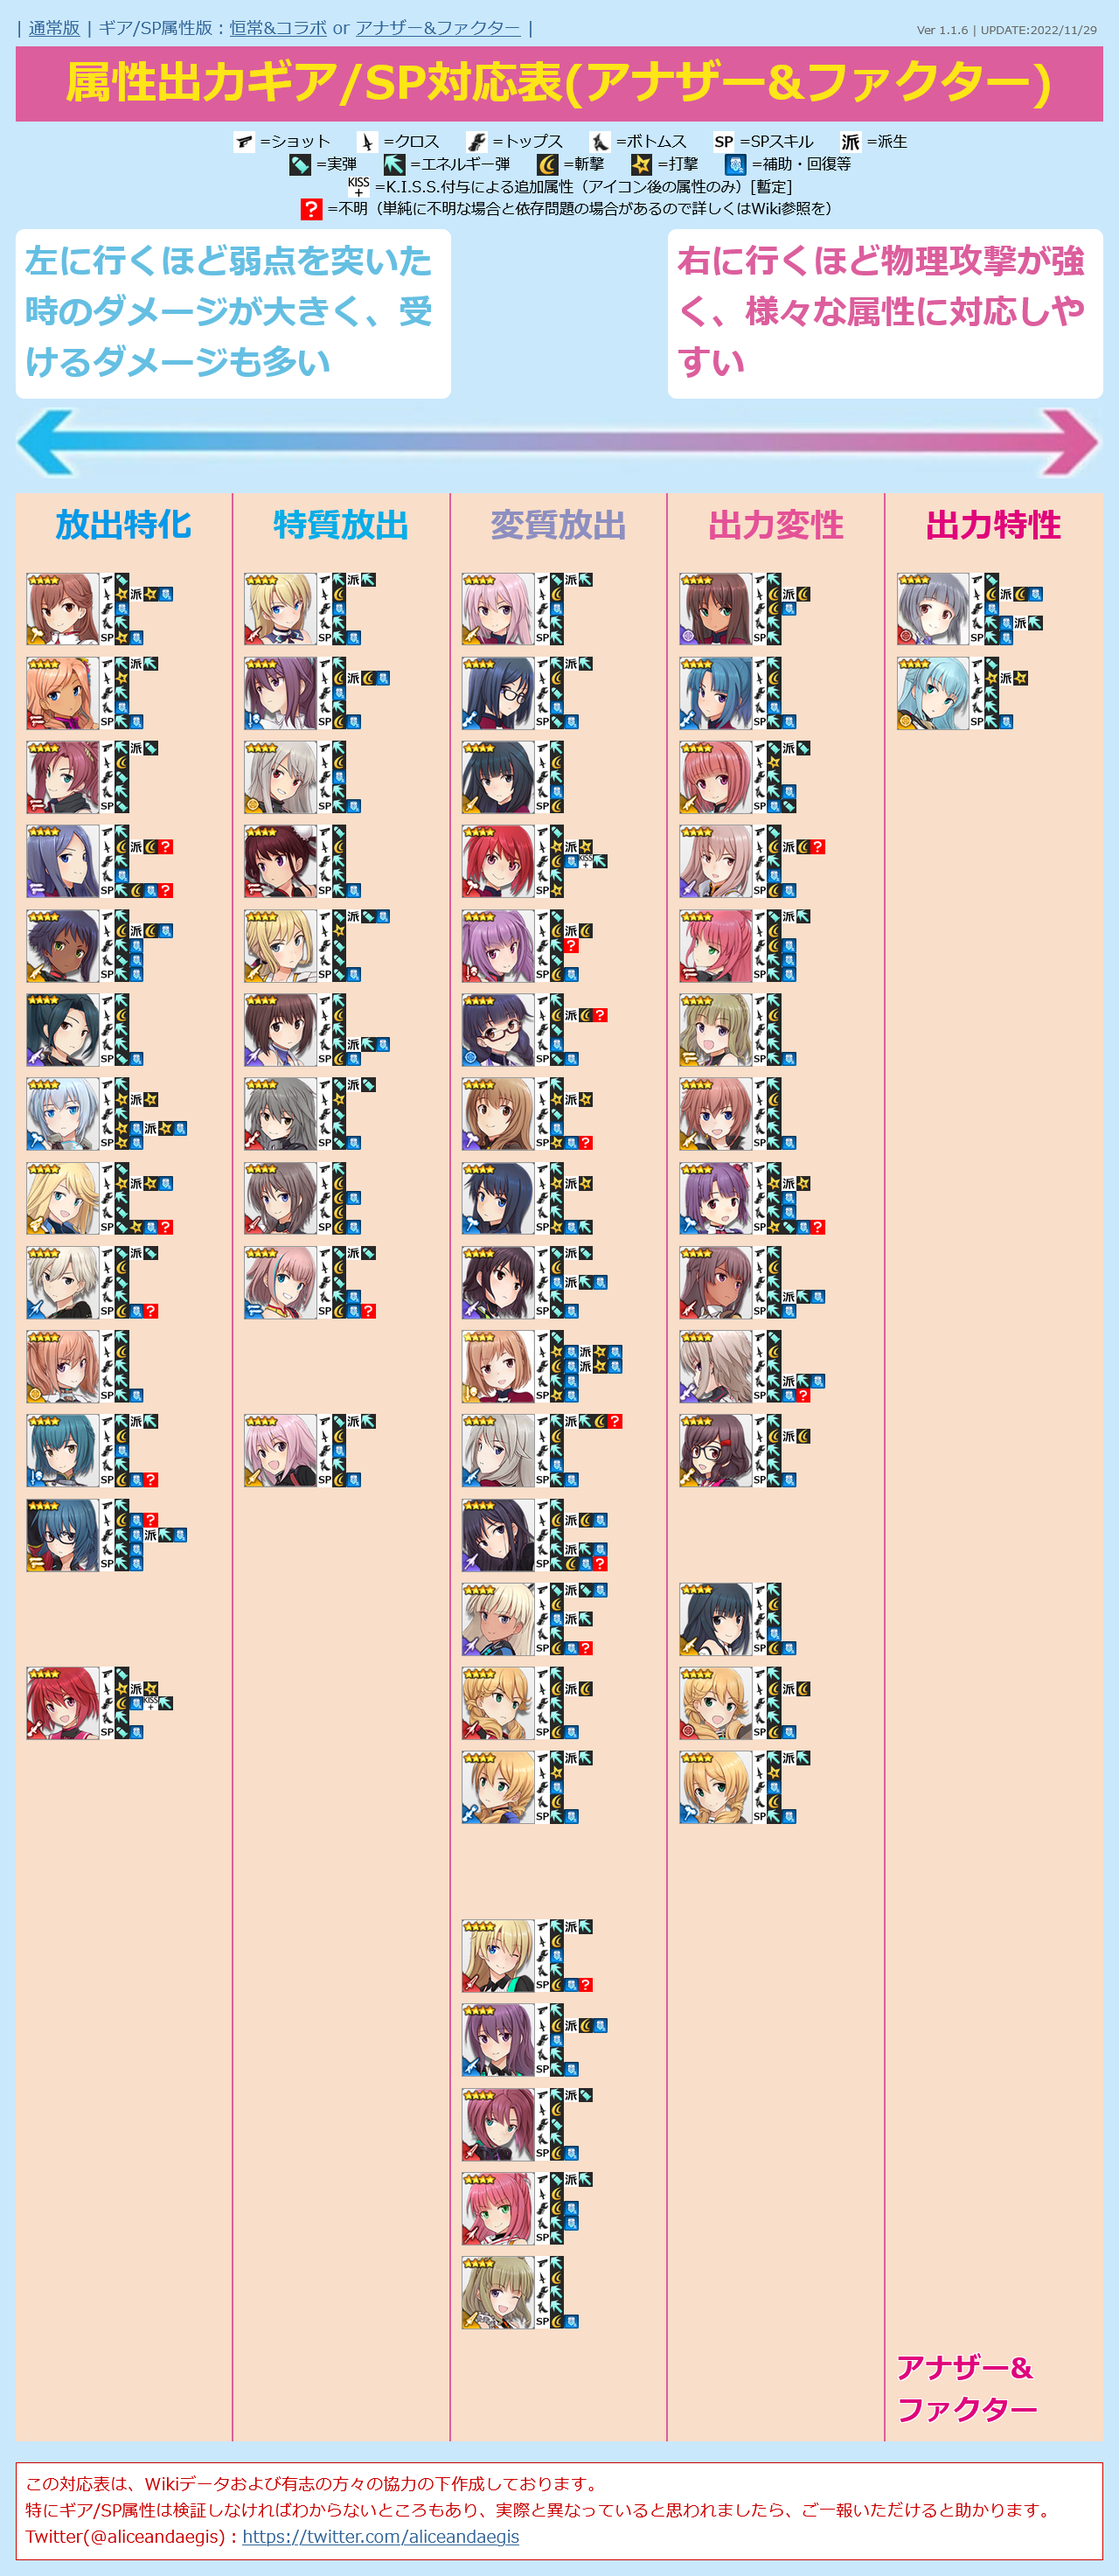
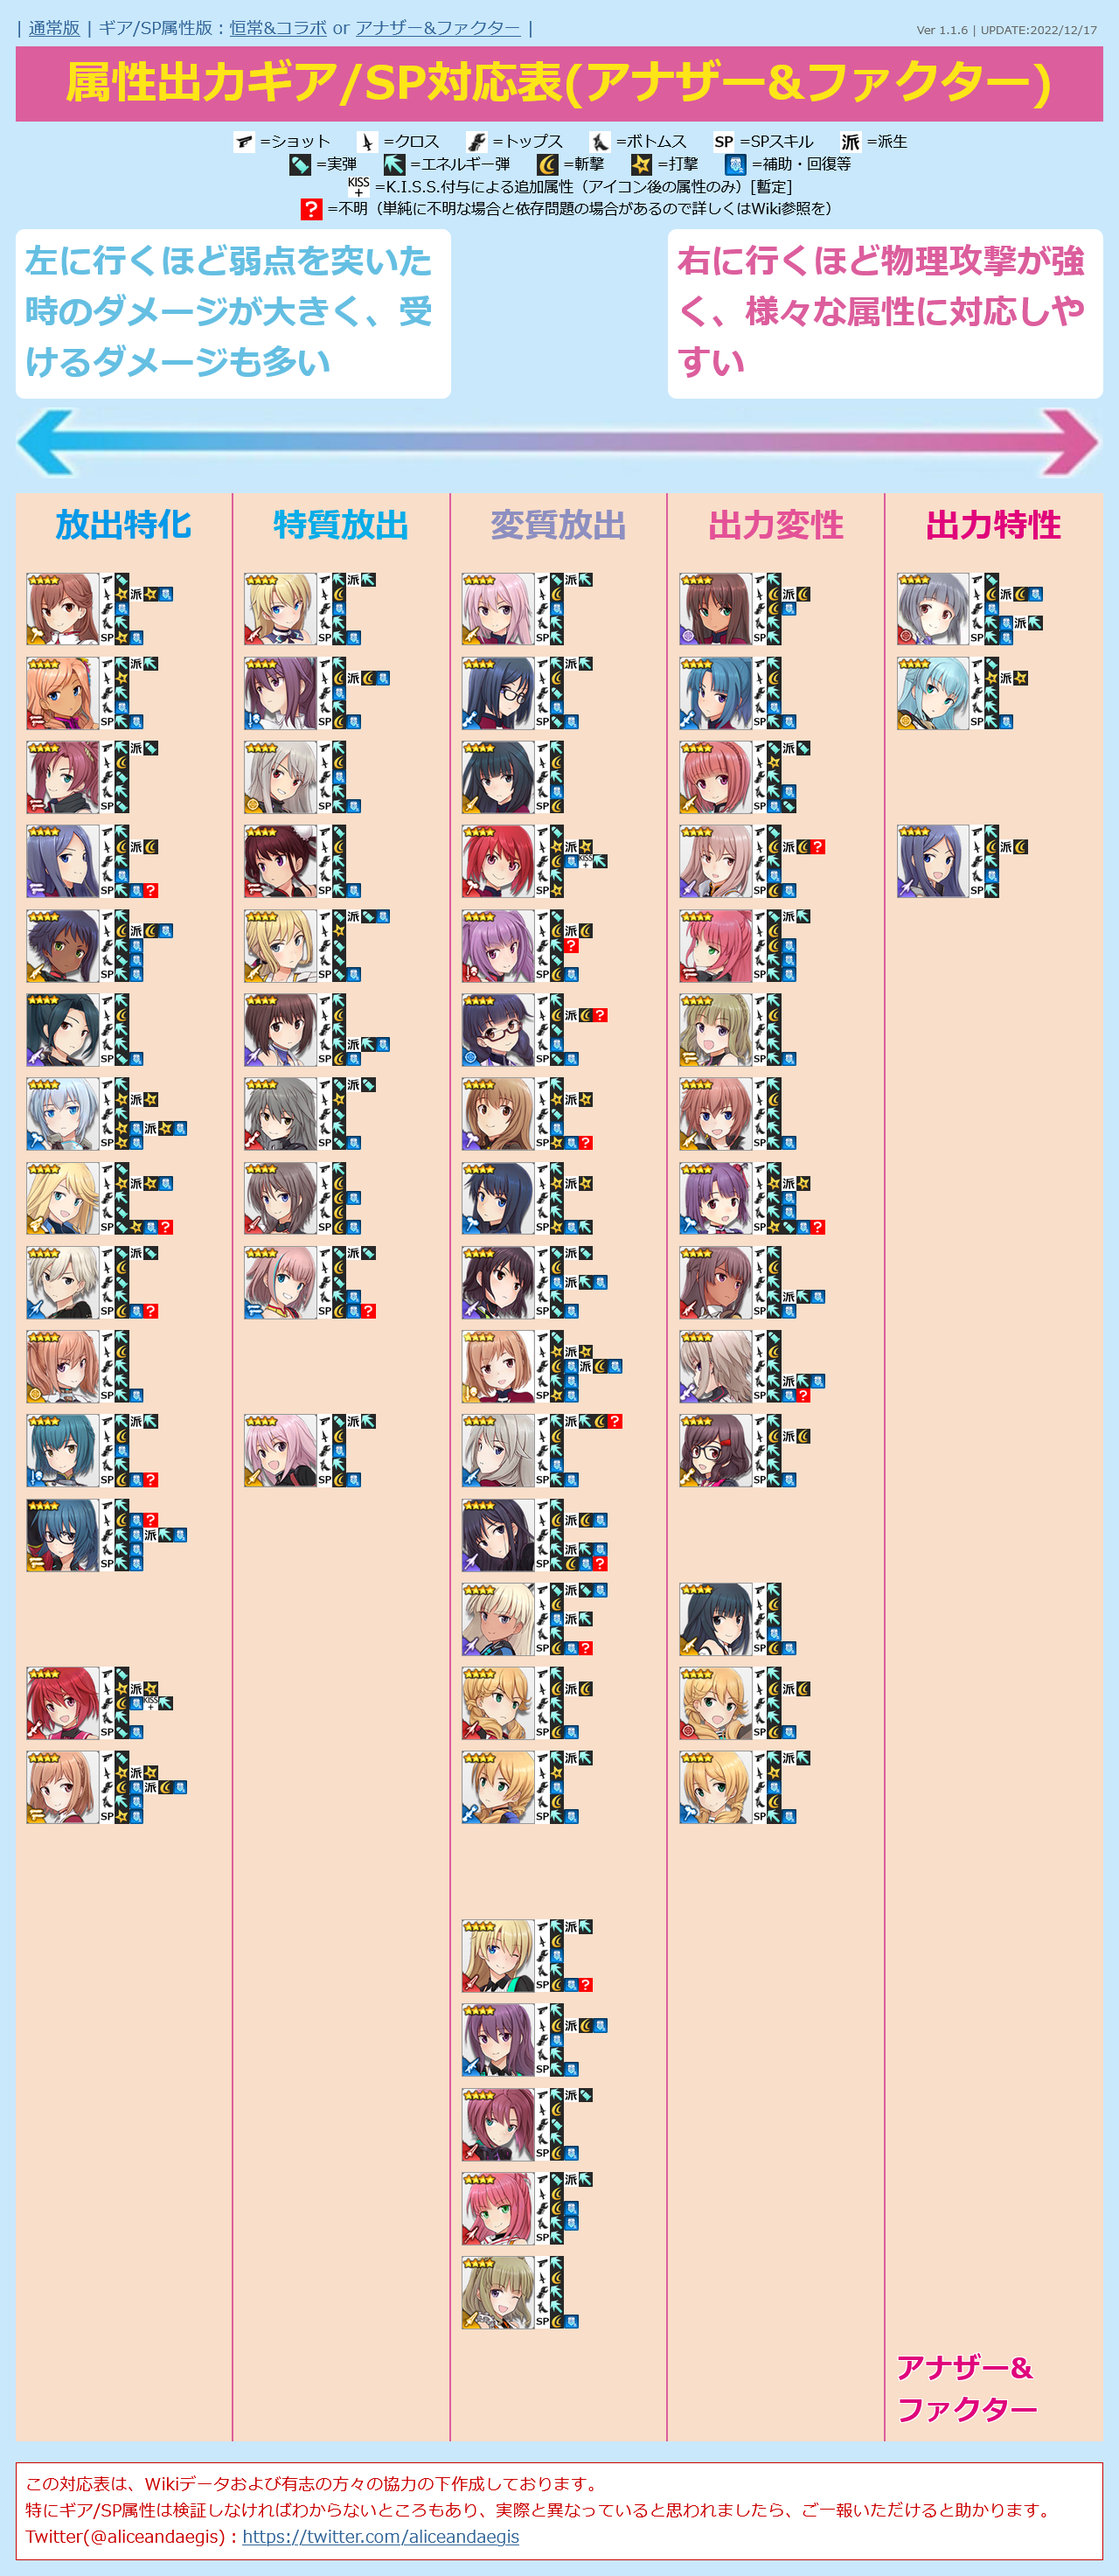
UPDATE charadata
・ファクター 仁紀藤 奏 / ブレイクを追加
・ファクター 州天頃 椎奈 / ブレイクを追加

diff --git a/alice.html b/alice.html
@@ -12,7 +12,7 @@
   <script>
 
 /* 更新情報 必要に応じて書き換えてください */
-  var version = "Ver 1.1.6 | UPDATE:2022/11/29";
+  var version = "Ver 1.1.6 | UPDATE:2022/12/17";
 
 
 /*
@@ -814,7 +814,7 @@
       "src": "normal-kanade.png",
       "name": "仁紀藤 奏",
       "equip1": "2",
-      "equip2": "3/3?",
+      "equip2": "3/3",
       "equip3": "2",
       "equip4": "5",
       "sp": "4",
@@ -828,13 +828,27 @@
       "src": "another-kanade.png",
       "name": "仁紀藤 奏 / 雲耀",
       "equip1": "2",
-      "equip2": "3/3?",
+      "equip2": "3/3",
       "equip3": "2",
       "equip4": "5",
-      "sp": "235?",
+      "sp": "25?",
       "attr": "2",
       "link": "https://wikiwiki.jp/alicegear/%E4%BB%81%E7%B4%80%E8%97%A4%E5%A5%8F%E9%9B%B2%E8%80%80",
       "category": "10"
+    },
+    {
+      "id": "24",
+      "type": "5",
+      "src": "factor-kanade.png",
+      "name": "仁紀藤 奏 / ブレイク",
+      "equip1": "2",
+      "equip2": "3/3",
+      "equip3": "2",
+      "equip4": "5",
+      "sp": "2",
+      "attr": "2",
+      "link": "https://wikiwiki.jp/alicegear/%E4%BB%81%E7%B4%80%E8%97%A4%E5%A5%8F/%E3%83%96%E3%83%AC%E3%82%A4%E3%83%96",
+      "category": "11"
     },
     {
       "id": "25",
@@ -842,8 +856,8 @@
       "src": "normal-shiina.png",
       "name": "州天頃 椎奈",
       "equip1": "1",
-      "equip2": "45/45",
-      "equip3": "35/45",
+      "equip2": "4/4",
+      "equip3": "35/35",
       "equip4": "25",
       "sp": "4",
       "attr": "1",
@@ -856,13 +870,27 @@
       "src": "another-shiina.png",
       "name": "州天頃 椎奈 / 玉響",
       "equip1": "1",
-      "equip2": "45/45",
-      "equip3": "35/45",
+      "equip2": "4/4",
+      "equip3": "35/35",
       "equip4": "25",
       "sp": "45",
       "attr": "1",
       "link": "https://wikiwiki.jp/alicegear/%E5%B7%9E%E5%A4%A9%E9%A0%83%E6%A4%8E%E5%A5%88%E7%8E%89%E9%9F%BF",
       "category": "10"
+    },
+    {
+      "id": "25",
+      "type": "1",
+      "src": "factor-shiina.png",
+      "name": "州天頃 椎奈 / ブレイク",
+      "equip1": "1",
+      "equip2": "4/4",
+      "equip3": "35/35",
+      "equip4": "25",
+      "sp": "45",
+      "attr": "1",
+      "link": "https://wikiwiki.jp/alicegear/%E5%B7%9E%E5%A4%A9%E9%A0%83%E6%A4%8E%E5%A5%88/%E3%83%96%E3%83%AC%E3%82%A4%E3%83%96",
+      "category": "11"
     },
     {
       "id": "26",
